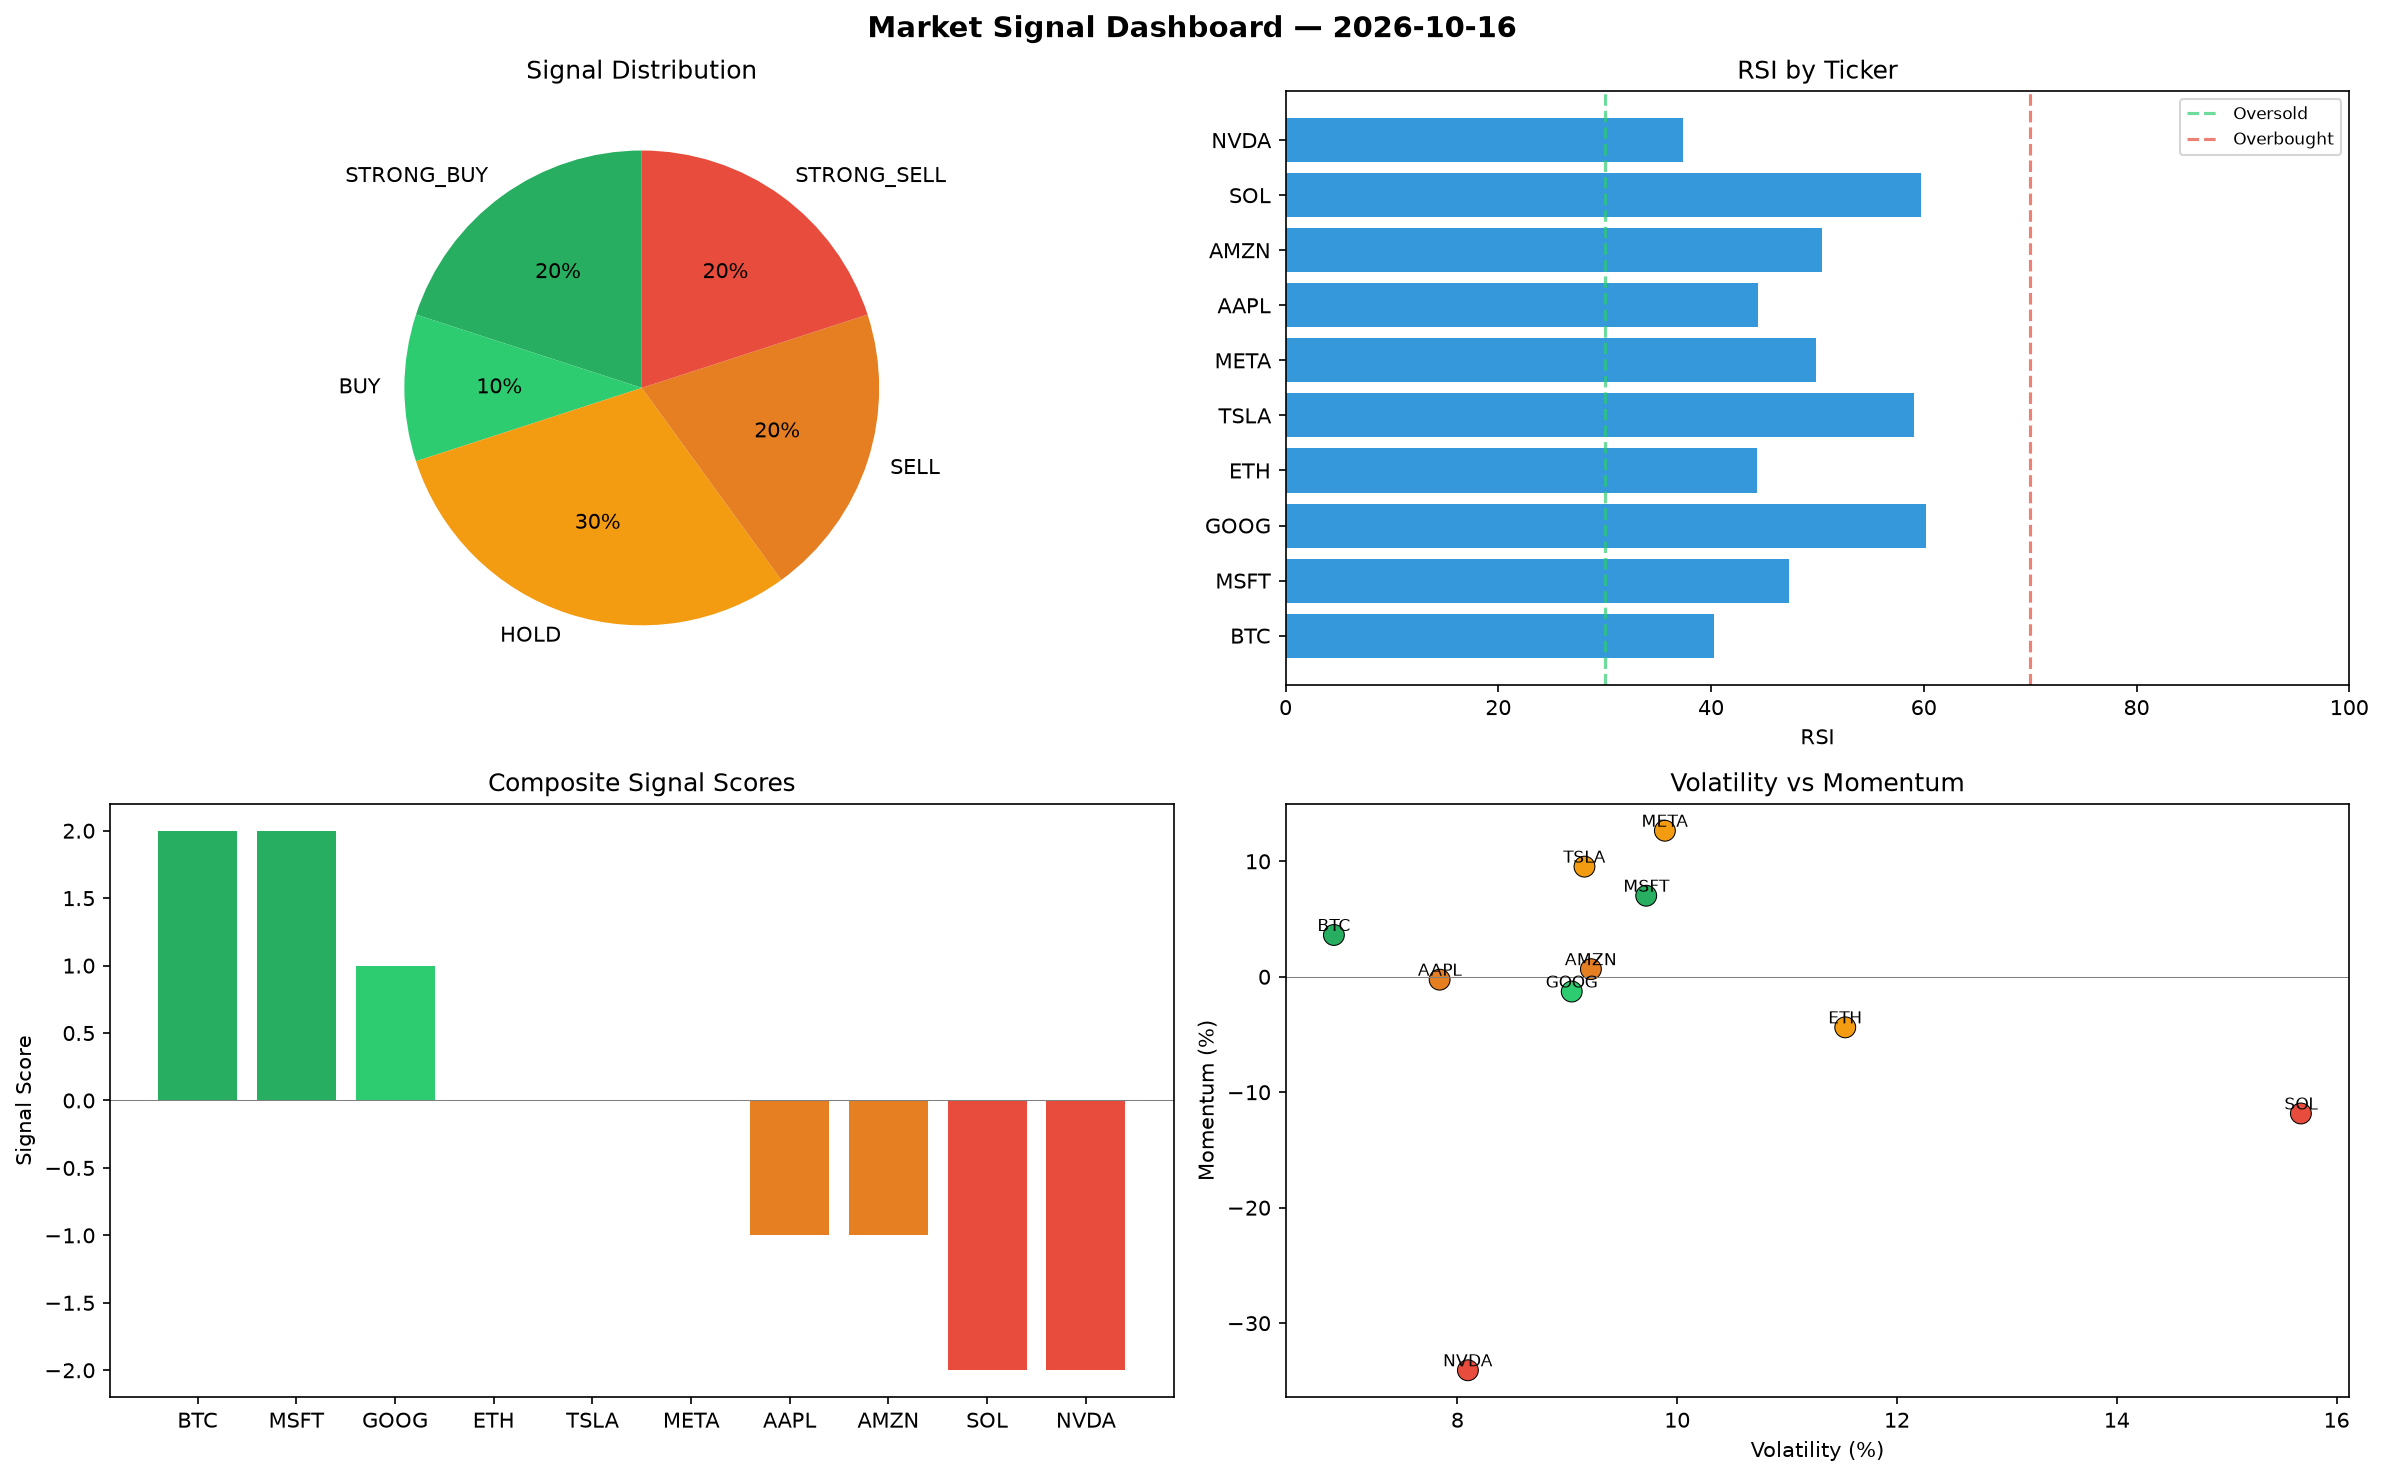
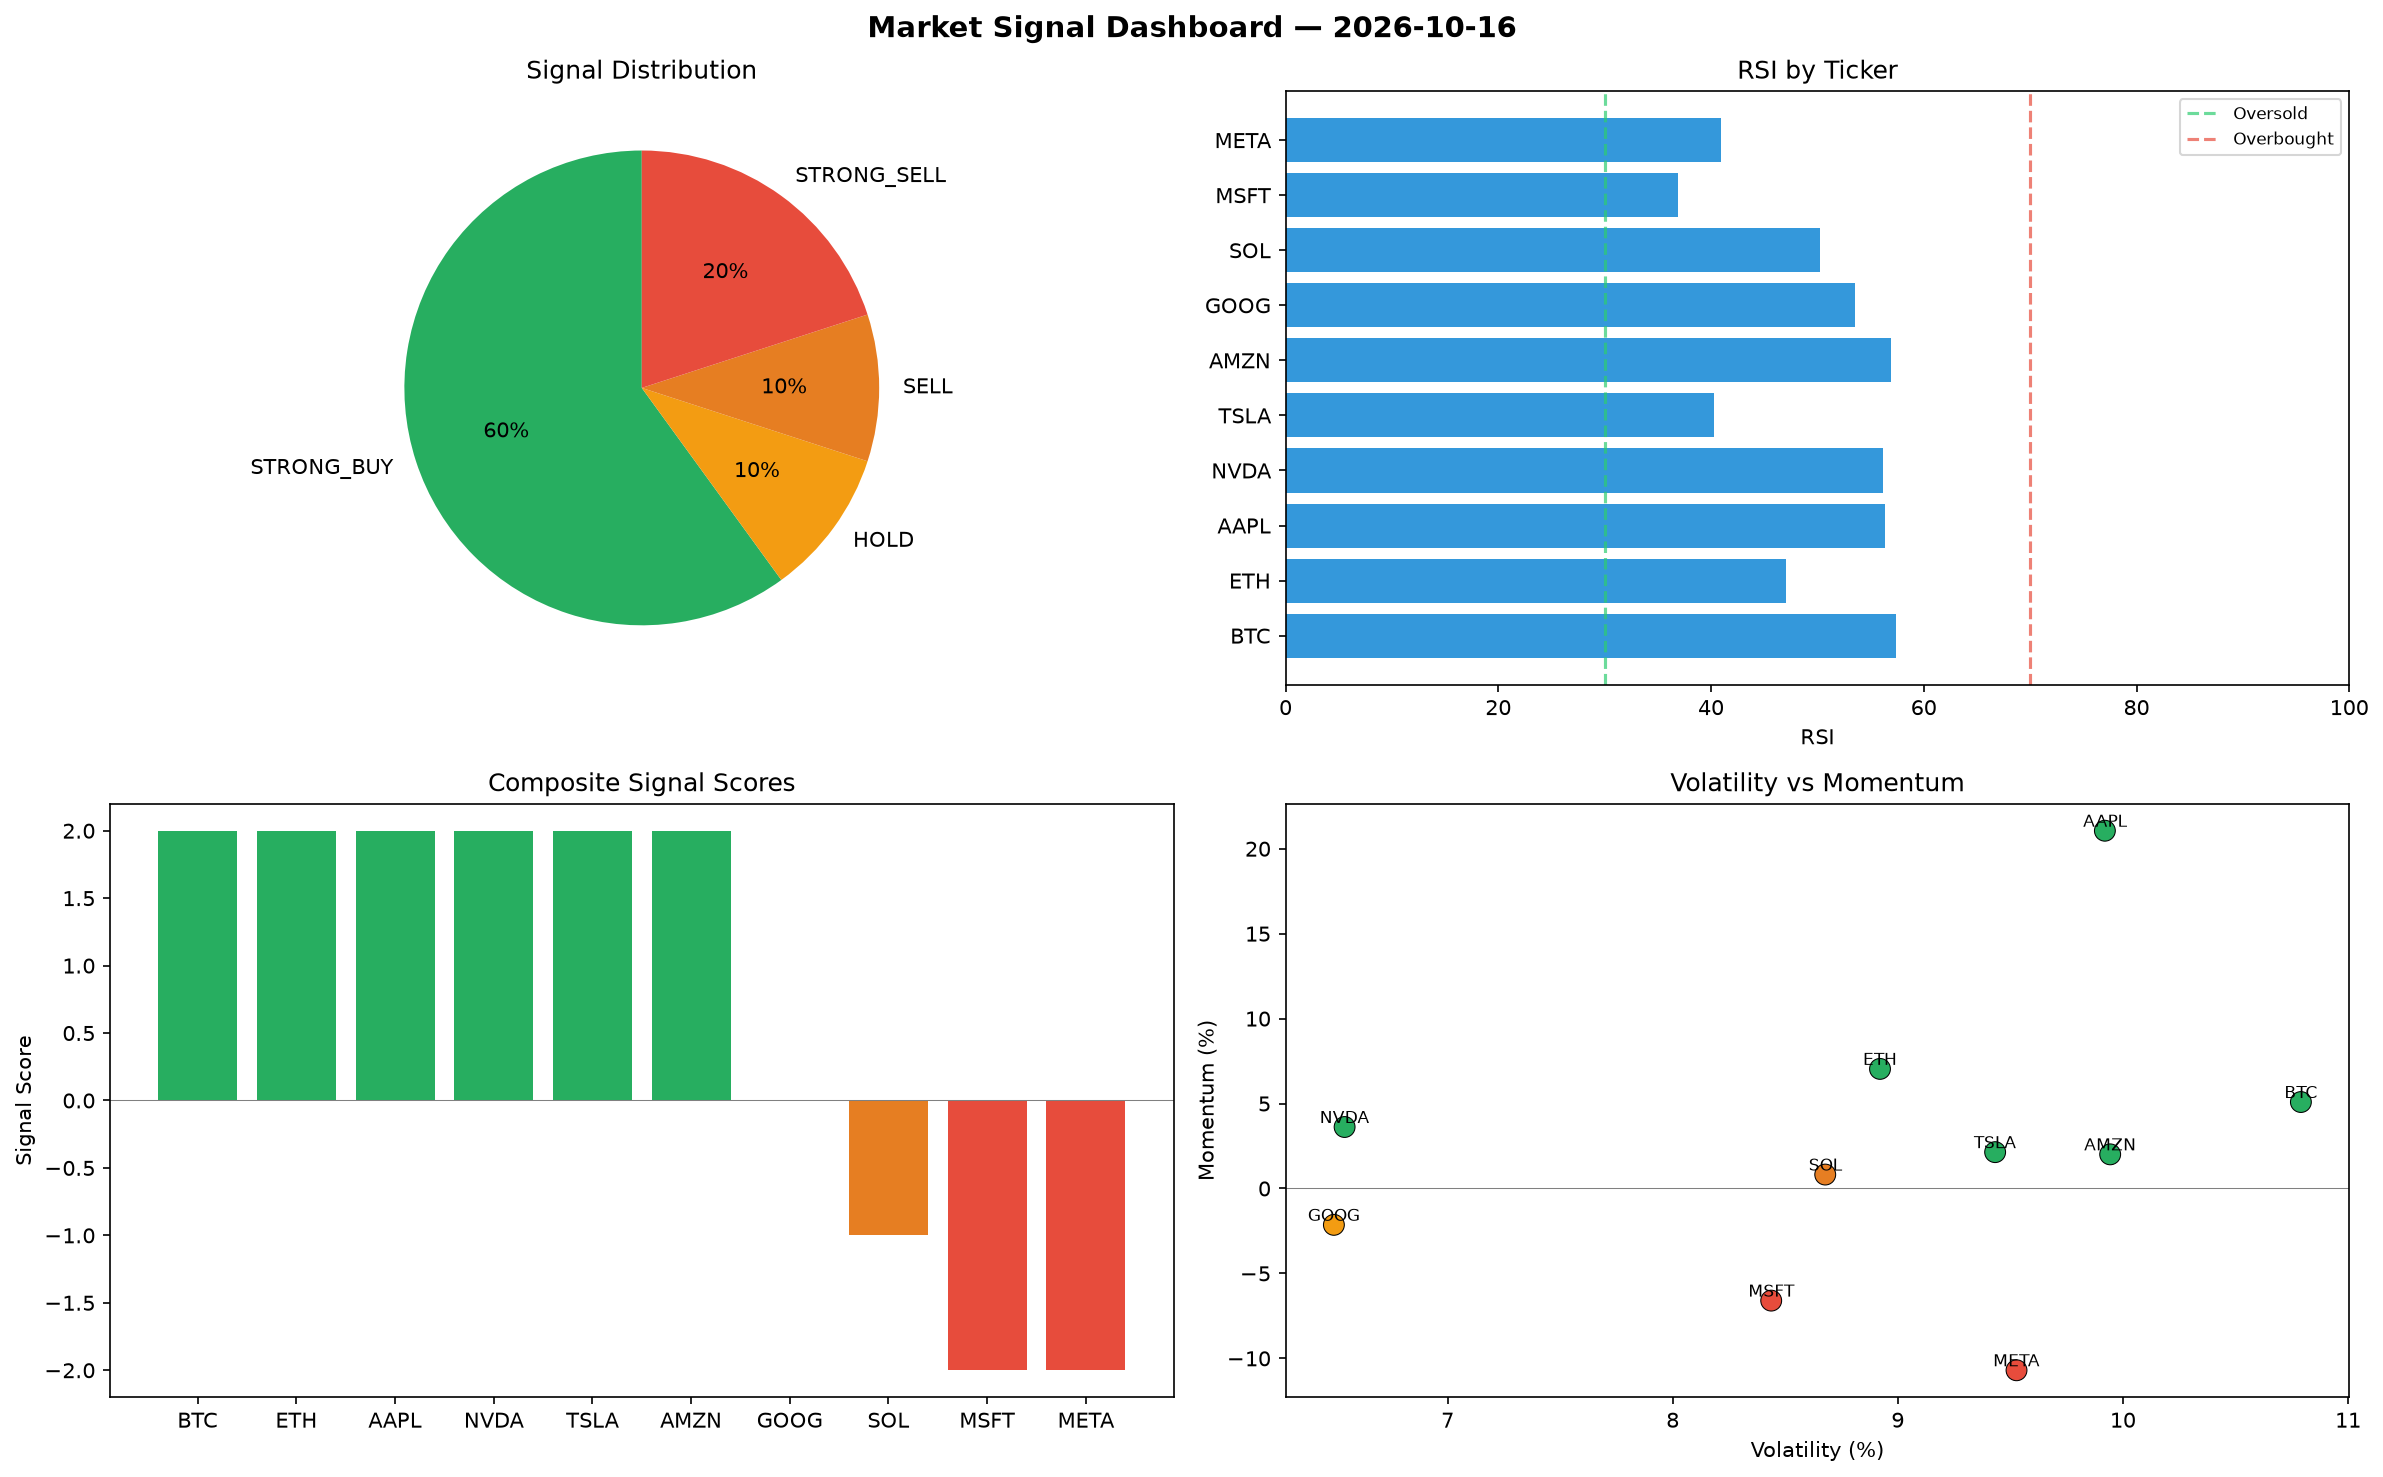
automated-bots: market signals 2026-10-16T22:54

diff --git a/logs/2026-10-16.md b/logs/2026-10-16.md
@@ -1,6 +1,6 @@
 # Market Signal Report — 2026-10-16
 
-**Run ID:** `16067c391f` | **Buy:** 3 | **Sell:** 4 | **Hold:** 3
+**Run ID:** `b820338e36` | **Buy:** 6 | **Sell:** 3 | **Hold:** 1
 
 ![Dashboard](2026-10-16_dashboard.png)
 
@@ -8,28 +8,28 @@
 
 | Ticker | Price | Signal | Score | RSI | Momentum | Confidence |
 |--------|-------|--------|-------|-----|----------|------------|
-| BTC | $3959.71 | **STRONG_BUY** | 2 | 40.31 | 0.0362 | 0.5 |
-| MSFT | $3290.8 | **STRONG_BUY** | 2 | 47.36 | 0.0702 | 0.5 |
-| GOOG | $2942.79 | **BUY** | 1 | 60.18 | -0.0128 | 0.25 |
-| ETH | $3810.54 | **HOLD** | 0 | 44.34 | -0.0438 | 0.0 |
-| TSLA | $654.92 | **HOLD** | 0 | 59.11 | 0.0954 | 0.0 |
-| META | $3580.33 | **HOLD** | 0 | 49.87 | 0.1265 | 0.0 |
-| AAPL | $3773.95 | **SELL** | -1 | 44.37 | -0.0025 | 0.25 |
-| AMZN | $3271.88 | **SELL** | -1 | 50.41 | 0.0066 | 0.25 |
-| SOL | $668.05 | **STRONG_SELL** | -2 | 59.72 | -0.1184 | 0.5 |
-| NVDA | $996.76 | **STRONG_SELL** | -2 | 37.33 | -0.3408 | 0.5 |
+| BTC | $4401.05 | **STRONG_BUY** | 2 | 57.38 | 0.0509 | 0.5 |
+| ETH | $1504.23 | **STRONG_BUY** | 2 | 47.01 | 0.0704 | 0.5 |
+| AAPL | $1490.29 | **STRONG_BUY** | 2 | 56.39 | 0.2106 | 0.5 |
+| NVDA | $3541.04 | **STRONG_BUY** | 2 | 56.14 | 0.0362 | 0.5 |
+| TSLA | $230.6 | **STRONG_BUY** | 2 | 40.31 | 0.0214 | 0.5 |
+| AMZN | $5000.88 | **STRONG_BUY** | 2 | 56.88 | 0.0201 | 0.5 |
+| GOOG | $3536.43 | **HOLD** | 0 | 53.53 | -0.0214 | 0.0 |
+| SOL | $1907.83 | **SELL** | -1 | 50.24 | 0.0082 | 0.25 |
+| MSFT | $775.24 | **STRONG_SELL** | -2 | 36.88 | -0.066 | 0.5 |
+| META | $1734.2 | **STRONG_SELL** | -2 | 40.97 | -0.107 | 0.5 |
 
 ## Delta vs Yesterday
 
 | Ticker | Today | Yesterday | Price Change | Signal Changed |
 |--------|-------|-----------|-------------|----------------|
-| BTC | STRONG_BUY | HOLD | 📉 -21.82% | ⚠ YES |
-| MSFT | STRONG_BUY | HOLD | 📈 30.96% | ⚠ YES |
-| GOOG | BUY | STRONG_SELL | 📈 496.27% | ⚠ YES |
-| ETH | HOLD | STRONG_BUY | 📈 4.29% | ⚠ YES |
-| TSLA | HOLD | STRONG_SELL | 📉 -76.53% | ⚠ YES |
-| META | HOLD | STRONG_BUY | 📈 7789.67% | ⚠ YES |
-| AAPL | SELL | STRONG_BUY | 📉 -14.74% | ⚠ YES |
-| AMZN | SELL | STRONG_SELL | 📈 52.28% | ⚠ YES |
-| SOL | STRONG_SELL | HOLD | 📉 -76.57% | ⚠ YES |
-| NVDA | STRONG_SELL | SELL | 📉 -70.83% | ⚠ YES |
+| BTC | STRONG_BUY | HOLD | 📉 -13.11% | ⚠ YES |
+| ETH | STRONG_BUY | STRONG_BUY | 📉 -58.83% | — |
+| AAPL | STRONG_BUY | STRONG_BUY | 📉 -66.33% | — |
+| NVDA | STRONG_BUY | SELL | 📈 3.63% | ⚠ YES |
+| TSLA | STRONG_BUY | STRONG_SELL | 📉 -91.74% | ⚠ YES |
+| AMZN | STRONG_BUY | STRONG_SELL | 📈 132.75% | ⚠ YES |
+| GOOG | HOLD | STRONG_SELL | 📈 616.56% | ⚠ YES |
+| SOL | SELL | HOLD | 📉 -33.09% | ⚠ YES |
+| MSFT | STRONG_SELL | HOLD | 📉 -69.15% | ⚠ YES |
+| META | STRONG_SELL | STRONG_BUY | 📈 3721.51% | ⚠ YES |
